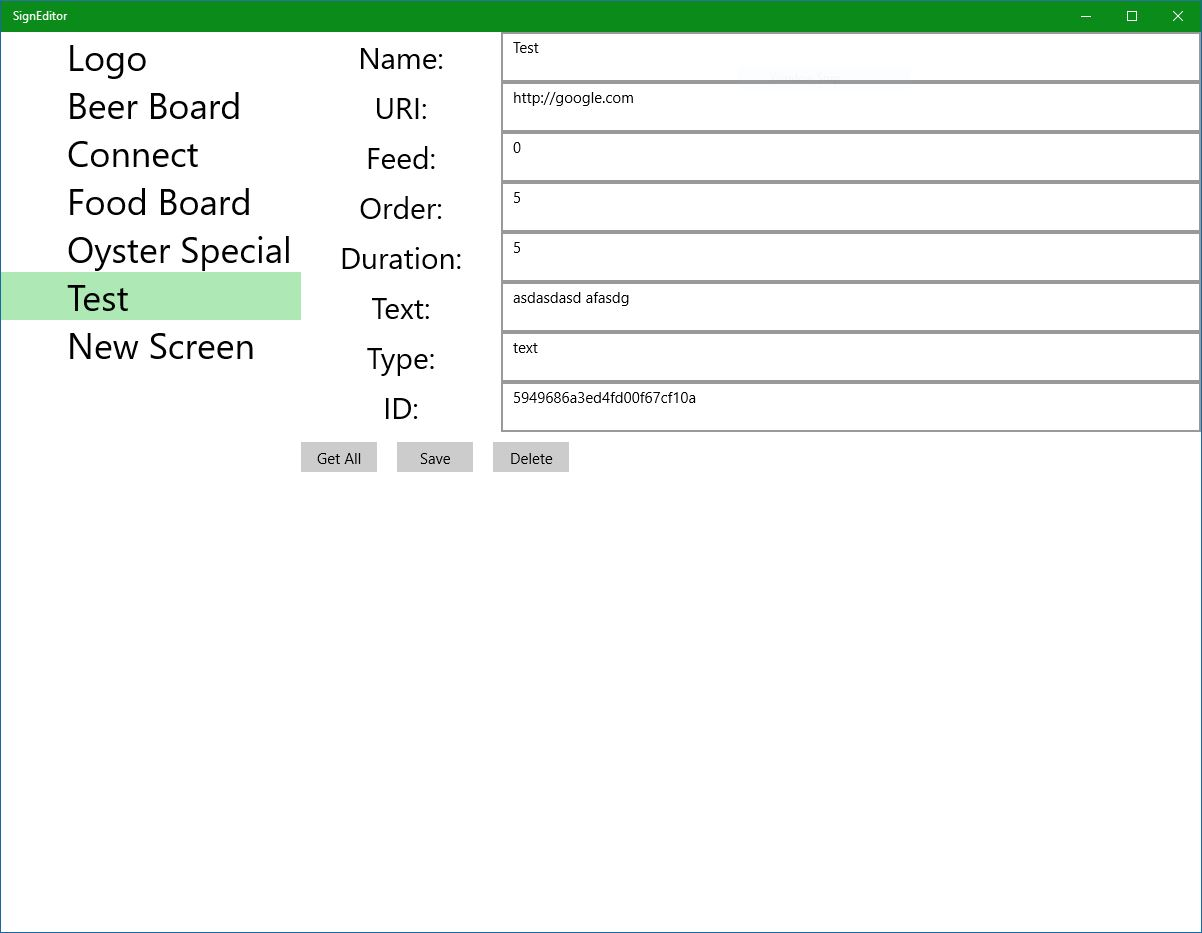
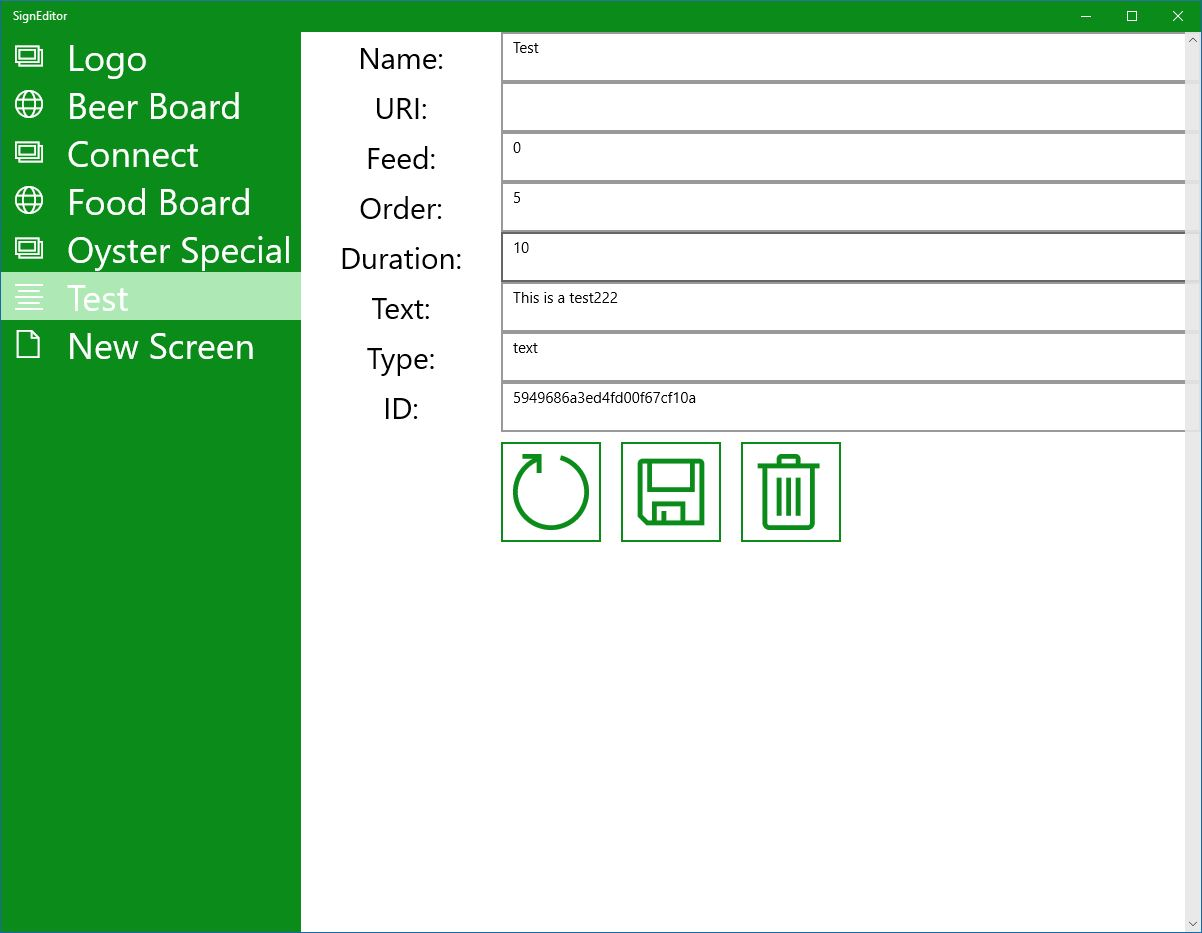
Pretty up app

diff --git a/SignEditor/SignEditor/MainPage.xaml b/SignEditor/SignEditor/MainPage.xaml
@@ -12,7 +12,7 @@
             <ColumnDefinition Width="300"></ColumnDefinition>
             <ColumnDefinition Width="*"></ColumnDefinition>
         </Grid.ColumnDefinitions>
-        <ListView x:Name="lv_main" Grid.Column="0" IsItemClickEnabled="True" ItemClick="lv_main_ItemClick">
+        <ListView x:Name="lv_main" Grid.Column="0" IsItemClickEnabled="True" ItemClick="lv_main_ItemClick" Background="#0B8C1A">
             <ListView.ItemTemplate>
                 <DataTemplate x:DataType="x:String">
                     <Grid>
@@ -20,7 +20,8 @@
                             <ColumnDefinition Width="54"/>
                             <ColumnDefinition/>
                         </Grid.ColumnDefinitions>
-                        <TextBlock Text="{Binding name}" FontSize="36" Grid.Column="1"/>
+                        <TextBlock Text="{Binding Icon}" FontFamily="Segoe MDL2 Assets" FontSize="28" Width="50" Grid.Column="0" VerticalAlignment="Center" Foreground="White" />
+                        <TextBlock Text="{Binding name}" FontSize="36" Grid.Column="1" VerticalAlignment="Center" Foreground="White"/>
                     </Grid>
                 </DataTemplate>
             </ListView.ItemTemplate>
@@ -29,6 +30,7 @@
         <ScrollViewer Grid.Column="1">
             <Grid>
                 <Grid.RowDefinitions>
+                    <RowDefinition Height="30"></RowDefinition>
                     <RowDefinition Height="50"></RowDefinition>
                     <RowDefinition Height="50"></RowDefinition>
                     <RowDefinition Height="50"></RowDefinition>
@@ -37,42 +39,41 @@
                     <RowDefinition Height="50"></RowDefinition>
                     <RowDefinition Height="50"></RowDefinition>
                     <RowDefinition Height="50"></RowDefinition>
-                    <RowDefinition Height="50"></RowDefinition>
-                    <RowDefinition Height="50"></RowDefinition>
+                    <RowDefinition Height="120"></RowDefinition>
                 </Grid.RowDefinitions>
                 <Grid.ColumnDefinitions>
                     <ColumnDefinition Width="200"></ColumnDefinition>
                     <ColumnDefinition Width="*"></ColumnDefinition>
                 </Grid.ColumnDefinitions>
 
-                <TextBlock Grid.Row="0" Grid.Column="0" TextAlignment="Center" FontSize="30" VerticalAlignment="Center">Name:</TextBlock>
-                <TextBox Grid.Row="0" Grid.Column="1"  Name="txt_name" HorizontalAlignment="Stretch"></TextBox>
+                <TextBlock Grid.Row="1" Grid.Column="0" TextAlignment="Center" FontSize="30" VerticalAlignment="Center">Name:</TextBlock>
+                <TextBox Grid.Row="1" Grid.Column="1"  Name="txt_name" HorizontalAlignment="Stretch"></TextBox>
 
-                <TextBlock Grid.Row="1" Grid.Column="0" TextAlignment="Center" FontSize="30" VerticalAlignment="Center">URI:</TextBlock>
-                <TextBox Grid.Row="1" Grid.Column="1" Name="txt_uri"></TextBox>
+                <TextBlock Grid.Row="2" Grid.Column="0" TextAlignment="Center" FontSize="30" VerticalAlignment="Center">URI:</TextBlock>
+                <TextBox Grid.Row="2" Grid.Column="1" Name="txt_uri"></TextBox>
 
-                <TextBlock Grid.Row="2" Grid.Column="0" TextAlignment="Center" FontSize="30" VerticalAlignment="Center">Feed:</TextBlock>
-                <TextBox Grid.Row="2" Grid.Column="1" Name="txt_feed"></TextBox>
+                <TextBlock Grid.Row="3" Grid.Column="0" TextAlignment="Center" FontSize="30" VerticalAlignment="Center">Feed:</TextBlock>
+                <TextBox Grid.Row="3" Grid.Column="1" Name="txt_feed"></TextBox>
 
-                <TextBlock Grid.Row="3" Grid.Column="0" TextAlignment="Center" FontSize="30" VerticalAlignment="Center">Order:</TextBlock>
-                <TextBox Grid.Row="3" Grid.Column="1" Name="txt_order"></TextBox>
+                <TextBlock Grid.Row="4" Grid.Column="0" TextAlignment="Center" FontSize="30" VerticalAlignment="Center">Order:</TextBlock>
+                <TextBox Grid.Row="4" Grid.Column="1" Name="txt_order"></TextBox>
 
-                <TextBlock Grid.Row="4" Grid.Column="0" TextAlignment="Center" FontSize="30" VerticalAlignment="Center">Duration:</TextBlock>
-                <TextBox Grid.Row="4" Grid.Column="1" Name="txt_duration"></TextBox>
+                <TextBlock Grid.Row="5" Grid.Column="0" TextAlignment="Center" FontSize="30" VerticalAlignment="Center">Duration:</TextBlock>
+                <TextBox Grid.Row="5" Grid.Column="1" Name="txt_duration"></TextBox>
 
-                <TextBlock Grid.Row="5" Grid.Column="0" TextAlignment="Center" FontSize="30" VerticalAlignment="Center">Text:</TextBlock>
-                <TextBox Grid.Row="5" Grid.Column="1" Name="txt_sign_text"></TextBox>
+                <TextBlock Grid.Row="6" Grid.Column="0" TextAlignment="Center" FontSize="30" VerticalAlignment="Center">Text:</TextBlock>
+                <TextBox Grid.Row="6" Grid.Column="1" Name="txt_sign_text"></TextBox>
 
-                <TextBlock Grid.Row="6" Grid.Column="0" TextAlignment="Center" FontSize="30" VerticalAlignment="Center">Type:</TextBlock>
-                <TextBox Grid.Row="6" Grid.Column="1" Name="txt_sign_type"></TextBox>
+                <TextBlock Grid.Row="7" Grid.Column="0" TextAlignment="Center" FontSize="30" VerticalAlignment="Center">Type:</TextBlock>
+                <TextBox Grid.Row="7" Grid.Column="1" Name="txt_sign_type"></TextBox>
 
-                <TextBlock Grid.Row="7" Grid.Column="0" TextAlignment="Center" FontSize="30" VerticalAlignment="Center">ID:</TextBlock>
-                <TextBox Grid.Row="7" Grid.Column="1" Name="txt_id" IsReadOnly="True"></TextBox>
+                <TextBlock Grid.Row="8" Grid.Column="0" TextAlignment="Center" FontSize="30" VerticalAlignment="Center">ID:</TextBlock>
+                <TextBox Grid.Row="8" Grid.Column="1" Name="txt_id" IsReadOnly="True"></TextBox>
 
-                <StackPanel Grid.Row="8" Grid.ColumnSpan="2" Orientation="Horizontal">
-                    <Button Name="btn_test" Click="btn_test_Click" Content="Get All" Margin="0,10,10,10" Width="76"></Button>
-                    <Button Name="btn_update" Click="btn_update_Click" Content="Save" Margin="10,10,10,10" Width="76"></Button>
-                    <Button Name="btn_delete" Click="btn_delete_Click" Content="Delete" Margin="10,10,10,10" Width="76"></Button>
+                <StackPanel Grid.Row="9" Grid.Column="1" Orientation="Horizontal">
+                    <Button Name="btn_refresh" Click="btn_refresh_Click" Content="&#xE72C;" FontFamily="Segoe MDL2 Assets"  Margin="0,10,10,10" Width="100" Height="100" FontSize="76" Foreground="#0B8C1A" BorderBrush="#0B8C1A" Background="#FFFFFF"></Button>
+                    <Button Name="btn_update" Click="btn_update_Click" Content="&#xE74E;" FontFamily="Segoe MDL2 Assets"  Margin="10,10,10,10" Width="100" Height="100" FontSize="76" Foreground="#0B8C1A" BorderBrush="#0B8C1A" Background="#FFFFFF"></Button>
+                    <Button Name="btn_delete" Click="btn_delete_Click" Content="&#xE74D;" FontFamily="Segoe MDL2 Assets"  Margin="10,10,10,10" Width="100" Height="100" FontSize="76" Foreground="#0B8C1A" BorderBrush="#0B8C1A" Background="#FFFFFF"></Button>
                 </StackPanel>
 
                 

diff --git a/SignEditor/SignEditor/ScreenManager.cs b/SignEditor/SignEditor/ScreenManager.cs
@@ -29,12 +29,21 @@ namespace SignEditor
         public int __v { get; set; }
         public DateTime modified_date { get; set; }
         public DateTime created_date { get; set; }
+        public string Icon {
+            get {
+                if (sign_type == "web") { return "\xE774"; }
+                else if (sign_type == "text") { return "\xE8E3"; }
+                else if (sign_type == "image") { return "\xE8B9"; }
+                else if (name == "New Screen") { return "\xE7C3"; }
+                else { return "\xE897"; }
+            }
+        }
     }
 
     public class ScreenManager
     {
 
-        string _baseURI = "";
+        string _baseURI = "/";
 
         public async Task<Screen[]> GetScreensAsync()
         {
@@ -59,7 +68,10 @@ namespace SignEditor
             Screen[] nsl = new Screen[sl.Length + 1];
             ns.name = "New Screen";
             for (int i = 0; i < sl.Length; i++)
-                nsl[i] = sl[i];
+            {
+                int order = Convert.ToInt32(sl[i].order);
+                nsl[order] = sl[i];
+            }
 
             nsl[sl.Length] = ns;
 

diff --git a/SignEditor/SignEditor/MainPage.xaml.cs b/SignEditor/SignEditor/MainPage.xaml.cs
@@ -45,11 +45,17 @@ namespace SignEditor
             Application.Current.Resources["SystemControlHighlightListAccentLowBrush"] = new SolidColorBrush(Color.FromArgb(255, 174, 232, 181));
             Application.Current.Resources["SystemControlHighlightListAccentMediumBrush"] = new SolidColorBrush(Color.FromArgb(255, 174, 232, 181));
 
+            Load();
         }
         
 
-        private async void btn_test_Click(object sender, RoutedEventArgs e)
-        { 
+        private async void btn_refresh_Click(object sender, RoutedEventArgs e)
+        {
+            Load();
+        }
+
+        private async void Load()
+        {
             var val = await _sm.GetScreensAsync();
             lv_main.ItemsSource = val;
         }
